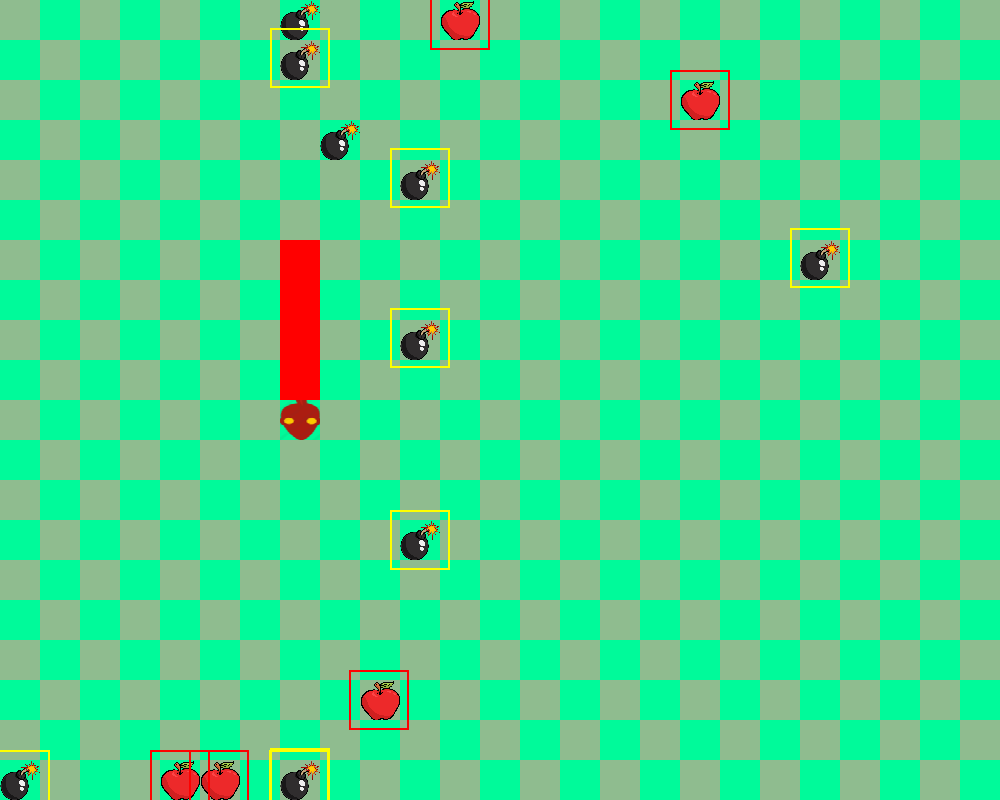
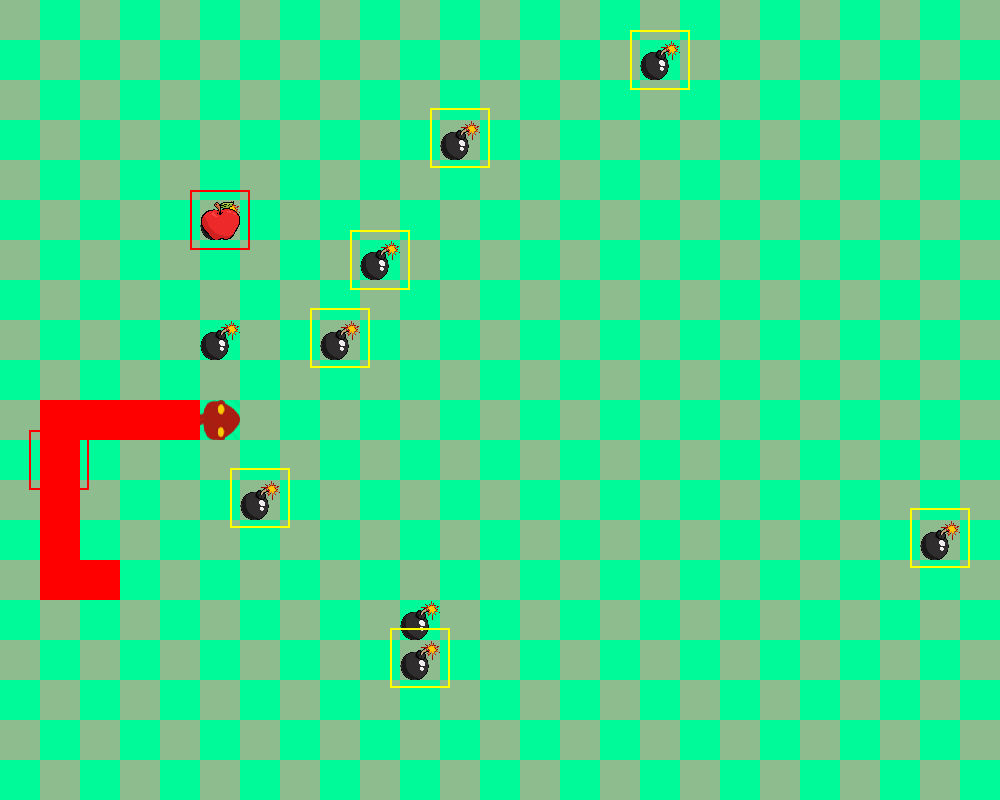
optimized grid drawing

diff --git a/DataCollector/datacollector.py b/DataCollector/datacollector.py
@@ -62,14 +62,11 @@ class DataCollector:
         pygame.image.save(screen, self.screenshot_path + "screenshot.png")
         game_img = cv2.imread(self.screenshot_path + "screenshot.png", cv2.IMREAD_UNCHANGED)
 
-        print("---------------------")
-
         # get apples
         result = cv2.matchTemplate(game_img, self.apple_img, cv2.TM_CCOEFF_NORMED)
         yloc, xloc = np.where(result >= self.threshold)
         xnew, ynew = self.group_findings(xloc, yloc)
         for (x, y) in zip(xnew, ynew):
-            print("Apple At: ", x, y)
             l = Label(x, y, "Apple", screen)
             labels.append(l)
 
@@ -78,7 +75,6 @@ class DataCollector:
         yloc, xloc = np.where(result >= self.threshold)
         xnew, ynew = self.group_findings(xloc, yloc)
         for (x, y) in zip(xnew, ynew):
-            print("Bomb at: ", x, y)
             l = Label(x, y, "Bomb", screen)
             l.color = (255, 255, 0)
             labels.append(l)

diff --git a/Game/grid.py b/Game/grid.py
@@ -13,9 +13,10 @@ class Grid:
         self.colors = [(0, 250, 154), (143, 188, 143)]
 
     def draw(self):
-        color_index = 0
+        draw = True
         for x in range(0, self.width, self.cell_width):
-            color_index = 1 if color_index == 0 else 0
             for y in range(0, self.height, self.cell_width):
-                pygame.draw.rect(self.screen, self.colors[color_index], (x, y, self.cell_width, self.cell_width))
-                color_index = 1 if color_index == 0 else 0
+                if draw:
+                    pygame.draw.rect(self.screen, self.colors[1], (x, y, self.cell_width, self.cell_width))
+                draw = not draw
+            draw = not draw

diff --git a/Game/game.py b/Game/game.py
@@ -62,7 +62,7 @@ class Game:
         draw all objects on pygame screen
         """
         # Fill the background with white
-        self.screen.fill((255, 255, 255))
+        self.screen.fill((0, 250, 154))
         # draw the underlying grid
         self.grid.draw()
         # draw the food
